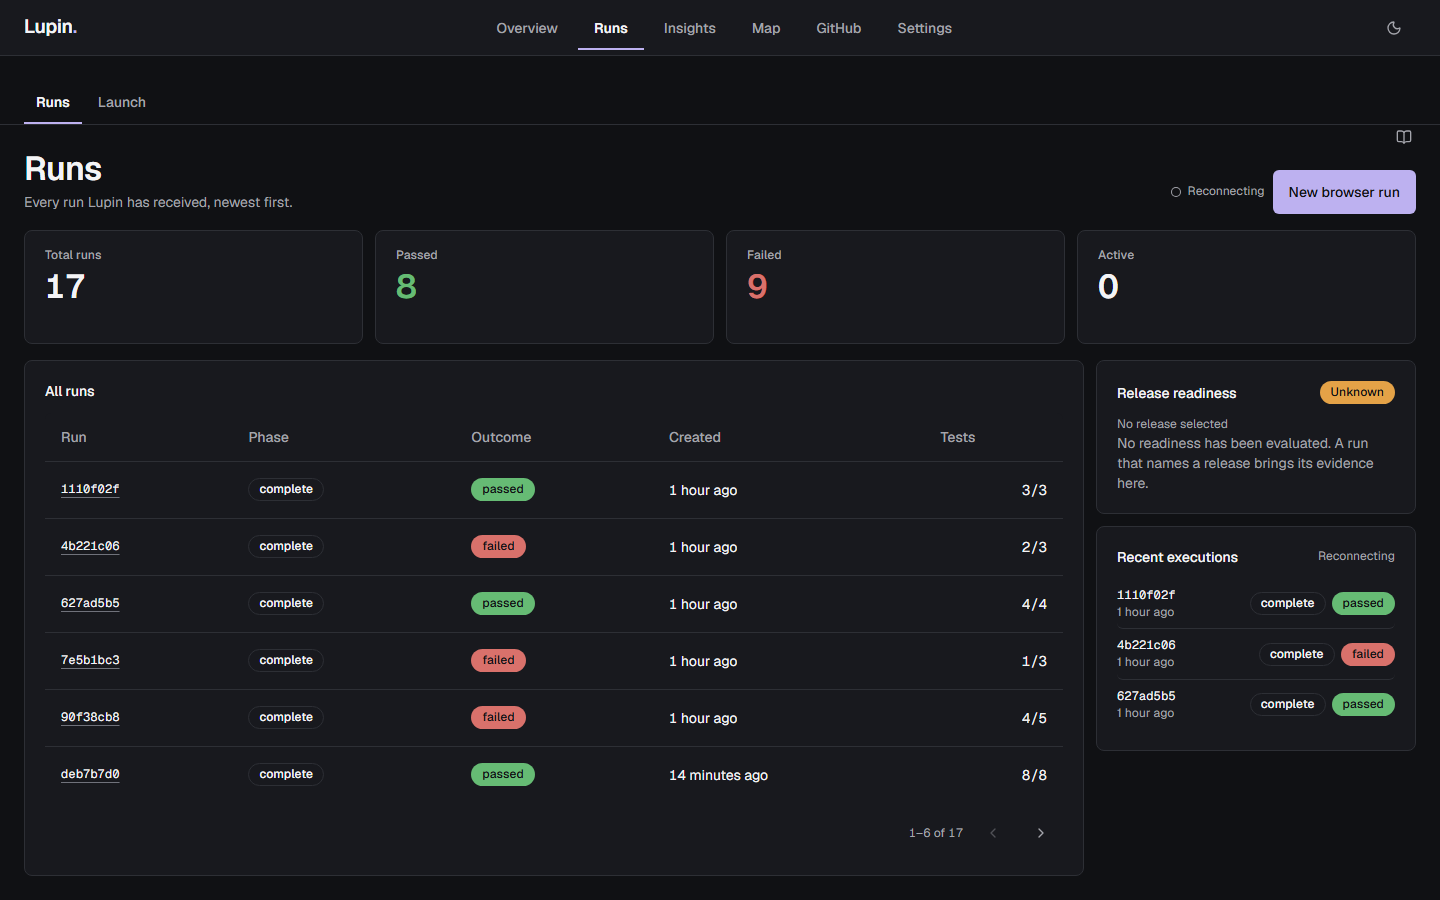
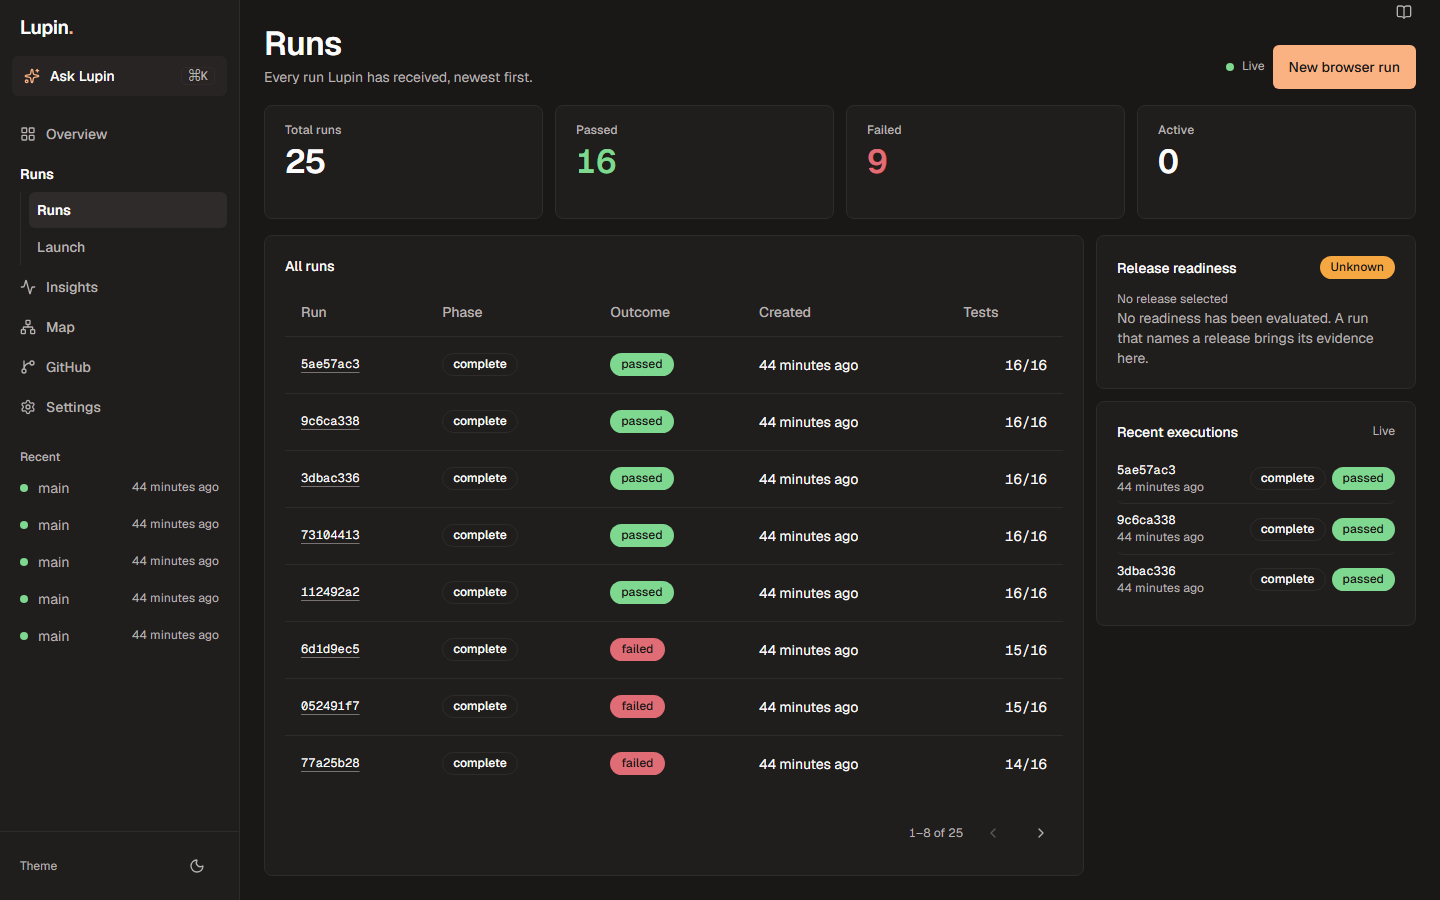
feat(docs): landing copy for AI-speed teams, free forever, new product shots

diff --git a/site/.vitepress/theme/Home.vue b/site/.vitepress/theme/Home.vue
@@ -1,7 +1,7 @@
 <script setup lang="ts">
 import { withBase } from 'vitepress';
-import runsPreview from '../../../docs/assets/runs.png';
-import runDetailPreview from '../../../docs/assets/run-detail.png';
+import focusPreview from '../../../docs/assets/focus.png';
+import insightsPreview from '../../../docs/assets/insights.png';
 import { githubUrl } from '../locales';
 
 /**
@@ -29,22 +29,22 @@ const decision = {
 
 const stages = [
   {
-    title: 'Observe',
-    text: 'Results from Playwright, JUnit, k6, ZAP and Allure.',
-    link: '/guide/sending-results',
-    action: 'Connect your test tools',
+    title: 'Connect',
+    text: 'Point it at your repo and CI. Two minutes.',
+    link: '/guide/install',
+    action: 'Install',
   },
   {
-    title: 'Investigate',
-    text: 'Every failure keeps its retries and its evidence.',
+    title: 'Lupin watches',
+    text: 'Every run, flaky test and health signal, as you ship.',
     link: '/guide/concepts',
-    action: 'Follow a test result',
+    action: 'What it reads',
   },
   {
-    title: 'Decide',
-    text: 'Pass, fail or unknown. Never green by omission.',
+    title: 'You decide',
+    text: 'One thing first. One click to retry or quarantine.',
     link: '/guide/quality-gates',
-    action: 'Understand quality gates',
+    action: 'Gates and quarantine',
   },
 ];
 
@@ -77,12 +77,14 @@ const quickStart = [
     <section class="lupin-hero" aria-labelledby="hero-title">
       <div class="lupin-hero-copy">
         <p class="lupin-kicker lupin-arrive">
-          <span aria-hidden="true"></span> Self-hosted QA control plane
+          <span aria-hidden="true"></span> The QA copilot for AI-speed teams
         </p>
         <h1 id="hero-title" class="lupin-arrive">
-          Know what broke.<br /><span>Know whether to ship.</span>
+          AI writes the code.<br /><span>Lupin keeps it shippable.</span>
         </h1>
-        <p class="lupin-lead lupin-arrive">Test results in. A release decision out. Self-hosted.</p>
+        <p class="lupin-lead lupin-arrive">
+          It reads every test run, spots what broke, and fixes the obvious in one click.
+        </p>
         <div class="lupin-actions lupin-arrive">
           <a class="lupin-button primary" :href="withBase('/guide/install')"
             >Get started <span aria-hidden="true">→</span></a
@@ -118,7 +120,7 @@ const quickStart = [
 
     <section id="product" class="lupin-showcase" aria-labelledby="showcase-title">
       <div class="lupin-section-line">
-        <h2 id="showcase-title">The evidence, in view.</h2>
+        <h2 id="showcase-title">It already knows what to show you.</h2>
         <a :href="withBase('/guide/concepts')"
           >Explore the product <span aria-hidden="true">→</span></a
         >
@@ -129,8 +131,8 @@ const quickStart = [
             <span></span><span></span><span></span>
           </div>
           <img
-            :src="runsPreview"
-            alt="The Lupin runs view in the dark theme: run totals, a table of runs with their outcomes and test counts, release readiness and recent executions."
+            :src="focusPreview"
+            alt="Lupin&rsquo;s home: a greeting, one failing test on main to fix first, and a one-click Retry now button."
             width="1440"
             height="900"
             fetchpriority="high"
@@ -142,8 +144,8 @@ const quickStart = [
             <span></span><span></span><span></span>
           </div>
           <img
-            :src="runDetailPreview"
-            alt="A failed run in Lupin: the headline “2 of 8 tests failed”, the run's phase timeline, totals, branch and commit, and its quality gate."
+            :src="insightsPreview"
+            alt="Lupin Insights: release readiness, flaky tests ranked by flips, slowest tests and failures by suite and day."
             width="1440"
             height="900"
             loading="lazy"
@@ -156,7 +158,7 @@ const quickStart = [
     <section id="how-it-works" class="lupin-section" aria-labelledby="how-title">
       <div class="lupin-section-heading">
         <p class="lupin-kicker">How it works</p>
-        <h2 id="how-title">Observe. Investigate. Decide.</h2>
+        <h2 id="how-title">Connect. Forget it. Ship.</h2>
       </div>
       <ol class="lupin-steps">
         <li v-for="(stage, index) in stages" :key="stage.title">
@@ -189,7 +191,7 @@ const quickStart = [
 
     <section class="lupin-closing" aria-labelledby="closing-title">
       <p class="lupin-kicker">Lupin<span class="lupin-wordmark-dot" aria-hidden="true">.</span></p>
-      <h2 id="closing-title">Ship with evidence.</h2>
+      <h2 id="closing-title">Free. Forever.<br /><span>Open source, on your machines.</span></h2>
       <div class="lupin-actions">
         <a class="lupin-button primary" :href="withBase('/guide/install')"
           >Get started <span aria-hidden="true">→</span></a
